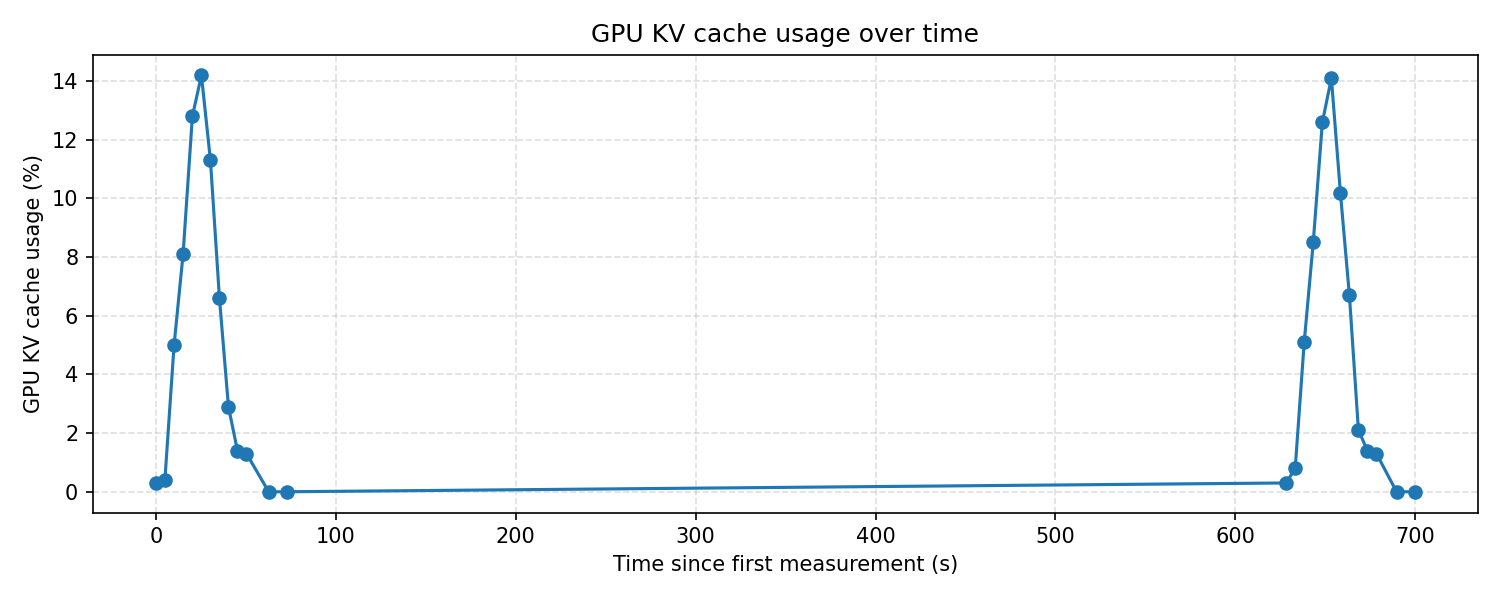
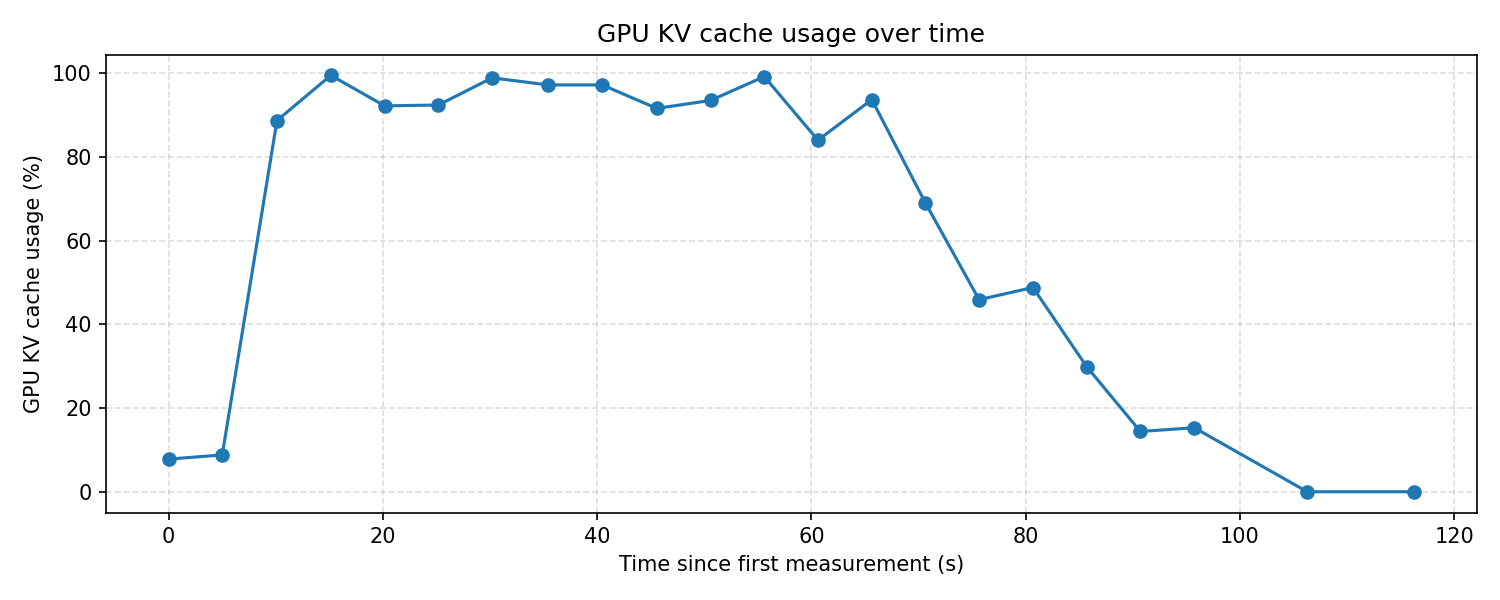
update section3.1 results

diff --git a/assignment_2/plot_task1_metrics.py b/assignment_2/plot_task1_metrics.py
@@ -54,18 +54,18 @@ def load_prompt_metrics(csv_path: Path) -> List[PromptMetrics]:
 def plot_ttft_tpot(metrics: Sequence[PromptMetrics], output_path: Path) -> None:
     """Plot TTFT and TPOT per prompt index and save to output_path."""
     prompt_indices = [m.prompt_index for m in metrics]
-    ttft_values = [m.ttft_ms for m in metrics]
-    tpot_values = [m.tpot_ms for m in metrics]
+    ttft_values = [m.ttft_ms / 1000 for m in metrics]
+    tpot_values = [m.tpot_ms / 1000 for m in metrics]
 
     fig, axes = plt.subplots(2, 1, sharex=True, figsize=(10, 6))
     axes[0].plot(prompt_indices, ttft_values, marker="o", linewidth=1.5)
-    axes[0].set_ylabel("TTFT (ms)")
+    axes[0].set_ylabel("TTFT (seconds)")
     axes[0].set_title("Time to First Token per prompt")
     axes[0].grid(True, linestyle="--", alpha=0.4)
 
     axes[1].plot(prompt_indices, tpot_values, marker="o", color="tab:orange", linewidth=1.5)
     axes[1].set_xlabel("Prompt index (issue order)")
-    axes[1].set_ylabel("TPOT (ms)")
+    axes[1].set_ylabel("TPOT (seconds)")
     axes[1].set_title("Time per Output Token per prompt")
     axes[1].grid(True, linestyle="--", alpha=0.4)
 
